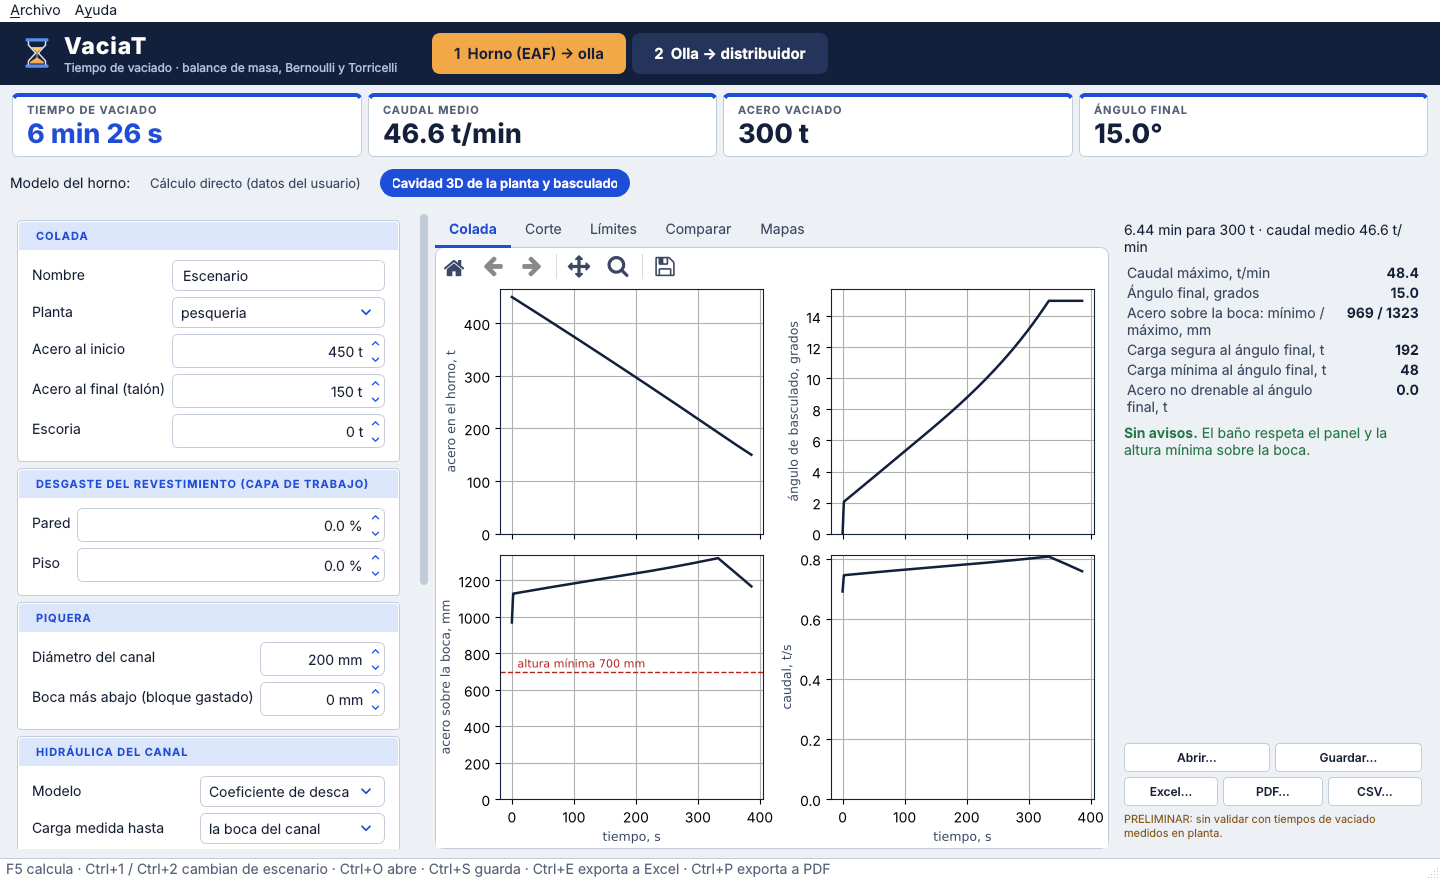
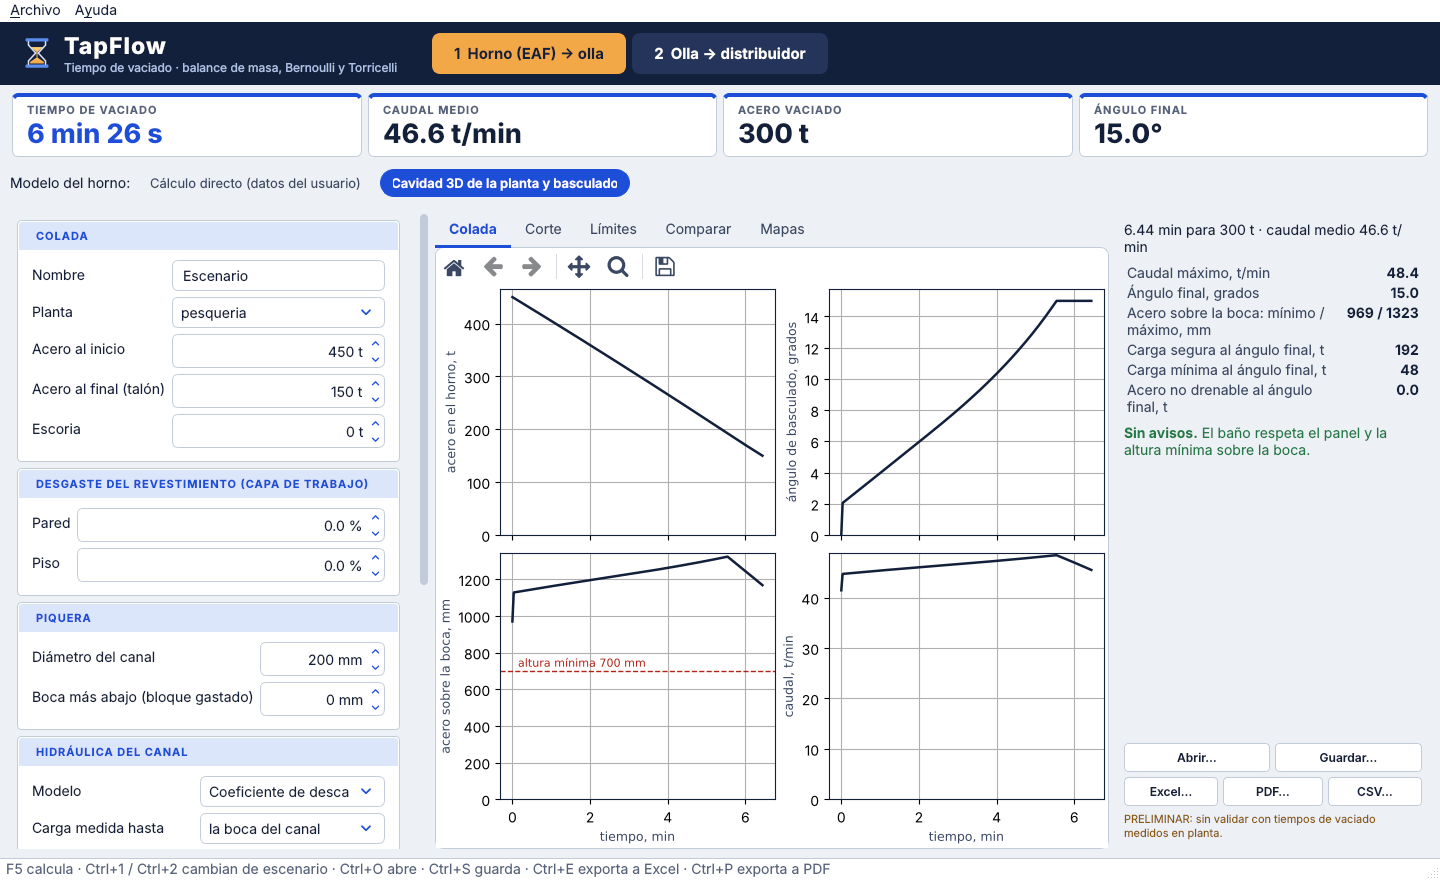
MV-005: el programa pasa a llamarse TapFlow
TapFlow en la ventana, el ejecutable, la CI y los documentos; el repositorio,
el paquete y los formatos no cambian. Sigue en 0.2.0-preliminar. 45 pruebas
en verde.

Claude-Session: https://claude.ai/code/session_01BzHvNseDPGdsyLfhJrthmM

diff --git a/herramientas/iconos.py b/herramientas/iconos.py
@@ -1,4 +1,4 @@
-"""Dibuja el icono de VaciaT con Qt (sin imágenes externas): ``python -m herramientas.iconos``.
+"""Dibuja el icono de TapFlow con Qt (sin imágenes externas): ``python -m herramientas.iconos``.
 
 El icono es un reloj de arena con acero fundido (el tiempo de vaciado), en la paleta del diseño: fondo de tinta oscura, marco
 claro, tapas en azul y acero en ámbar. Escribe ``modelo_vaciado/interfaz/recursos/icono.png`` (256 px) e ``icono.ico`` (16 a
@@ -22,7 +22,7 @@ from PySide6.QtGui import (QBrush, QColor, QFont, QGuiApplication, QImage, QLine
 RAIZ = Path(__file__).resolve().parent.parent
 CARPETA = RAIZ / "modelo_vaciado" / "interfaz" / "recursos"
 MUESTRA = RAIZ / "docs" / "figuras" / "icono.png"
-NARANJA, AMARILLO = QColor("#F3A847"), QColor("#FFD27A")      # acero de la paleta VaciaT (ACERO_LIQUIDO) y su brillo
+NARANJA, AMARILLO = QColor("#F3A847"), QColor("#FFD27A")      # acero de la paleta TapFlow (ACERO_LIQUIDO) y su brillo
 TINTA, CLARO, AZUL = "#13203B", "#DCE6FA", "#5B8DEF"          # fondo (TINTA), marco (ACENTO_SUAVE) y tapas (azul del acento, aclarado)
 
 
@@ -106,7 +106,7 @@ def muestra(ruta: Path):
     fuente.setBold(True)
     p.setFont(fuente)
     p.setPen(QColor(TINTA))
-    p.drawText(QRectF(290, 200, 160, 40), Qt.AlignmentFlag.AlignCenter, "VaciaT")
+    p.drawText(QRectF(290, 200, 160, 40), Qt.AlignmentFlag.AlignCenter, "TapFlow")
     p.end()
     ruta.parent.mkdir(parents=True, exist_ok=True)
     imagen.save(str(ruta))

diff --git a/modelo_vaciado/interfaz/tema.py b/modelo_vaciado/interfaz/tema.py
@@ -1,4 +1,4 @@
-"""El diseño de la ventana: **VaciaT**, claro, con la paleta de plano técnico (blanco, azul y tinta) y el acero en ámbar.
+"""El diseño de la ventana: **TapFlow**, claro, con la paleta de plano técnico (blanco, azul y tinta) y el acero en ámbar.
 
 Una paleta es un diccionario de roles (``ACENTO``, ``ACERO_LIQUIDO``, ``TINTA``…): la ventana y las gráficas no hablan de
 colores sino de roles. Los roles y las marcas de estado vienen del diseño Magnesita de LWD-EAF; los colores, del diseño «Plano»
@@ -9,7 +9,7 @@ la rama ``archivo/disenos-iniciales`` y en ``docs/historial/disenos-iniciales/``
 from __future__ import annotations
 
 DISENO = "vaciat"
-ETIQUETA = "VaciaT"
+ETIQUETA = "TapFlow"
 
 PALETA = dict(
     FONDO="#EDF1F6", SUPERFICIE="#FFFFFF", SUPERFICIE_2="#E2E8F0", SUPERFICIE_3="#D7E4F6",

diff --git a/verificacion/test_tiempo_vaciado.py b/verificacion/test_tiempo_vaciado.py
@@ -144,7 +144,7 @@ def test_ventana(tmp_path):
 
     qapp = aplicacion_qt()
     preparar(qapp)
-    assert tema.DISENO == "vaciat" and NOMBRE_APP == "VaciaT"
+    assert tema.DISENO == "vaciat" and NOMBRE_APP == "TapFlow"
     v = Ventana()
     assert v.icono_cargado and v.horno._detallado is None       # la vista con la cavidad 3D se arma al primer uso
     o = v.olla
@@ -163,7 +163,7 @@ def test_ventana(tmp_path):
     assert v.kpis[0].valor.text() == o.tiempo_texto()
     assert "Tiempo de vaciado" in v.resumen_texto()
     v.copiar_resumen()
-    assert "VaciaT" in qapp.clipboard().text()
+    assert "TapFlow" in qapp.clipboard().text()
     from PySide6.QtCore import QSettings
 
     ajustes = QSettings(str(tmp_path / "ajustes.ini"), QSettings.Format.IniFormat)

diff --git a/vaciado.py b/vaciado.py
@@ -1,4 +1,4 @@
-"""VaciaT: tiempo de vaciado del horno (EAF) a la olla y de la olla al distribuidor. Preliminar.
+"""TapFlow: tiempo de vaciado del horno (EAF) a la olla y de la olla al distribuidor. Preliminar.
 
     python vaciado.py                      abre la ventana
     python vaciado.py escenario.json       abre la ventana con ese escenario
@@ -20,7 +20,7 @@ if __name__ == "__main__":
     if args[:1] == ["--version"]:
         from modelo_vaciado import VERSION_MODELO
 
-        print(f"VaciaT {VERSION_MODELO}")
+        print(f"TapFlow {VERSION_MODELO}")
         sys.exit(0)
     if args[:1] == ["--probar-ventana"]:
         from modelo_vaciado.ventana import probar_ventana

diff --git a/empaquetado/construir.py b/empaquetado/construir.py
@@ -22,7 +22,7 @@ sys.path.insert(0, str(RAIZ))
 
 from modelo_vaciado import VERSION_MODELO  # noqa: E402
 
-NOMBRE = "VaciaT"
+NOMBRE = "TapFlow"
 # Módulos que el programa no usa y que otras bibliotecas arrastran si están instalados (adelgazan el ejecutable; medido en Linux:
 # ver CHANGELOG, MV-004). Matplotlib necesita Pillow y fontTools (PDF), que se quedan.
 EXCLUIDOS = ("scipy", "pandas", "lxml", "IPython", "PySide6.QtQml", "PySide6.QtQuick", "PySide6.QtNetwork", "PySide6.QtPdf",

diff --git a/modelo_vaciado/ventana.py b/modelo_vaciado/ventana.py
@@ -40,7 +40,7 @@ from .escenario import abrir, correr, planta_de
 from .reporte import AVISO, escribir_csv, escribir_excel, escribir_pdf, filas_de_resultado
 from .ventana_tiempo import PaginaTiempo, colores
 
-NOMBRE_APP = "VaciaT"          # nombre del programa (decisión del usuario del 2026-11-24)
+NOMBRE_APP = "TapFlow"          # nombre del programa (decisión del usuario del 2026-11-24)
 RAIZ = raiz()
 RECURSOS = RAIZ / "modelo_vaciado" / "interfaz" / "recursos"
 P = tema.PALETA

diff --git a/modelo_vaciado/interfaz/tema_qt.py b/modelo_vaciado/interfaz/tema_qt.py
@@ -1,4 +1,4 @@
-"""El diseño VaciaT vestido con Qt: la paleta y los roles son los de ``tema.py``; aquí está la hoja de estilo.
+"""El diseño TapFlow vestido con Qt: la paleta y los roles son los de ``tema.py``; aquí está la hoja de estilo.
 
 Tarjetas con esquinas redondeadas, botones y campos con estados (sobre, foco, inhabilitado), deslizadores y barras de
 desplazamiento finos, pestañas con subrayado y tablas con filas alternas. Qt escala solo en pantallas de 125 a 200 %.

diff --git a/modelo_vaciado/ventana_formulario.py b/modelo_vaciado/ventana_formulario.py
@@ -1,4 +1,4 @@
-"""Piezas de interfaz comunes a las páginas de VaciaT, sobre los componentes Qt de LWD-EAF."""
+"""Piezas de interfaz comunes a las páginas de TapFlow, sobre los componentes Qt de LWD-EAF."""
 
 from __future__ import annotations
 

diff --git a/docs/disenos.md b/docs/disenos.md
@@ -1,9 +1,9 @@
 # Diseño de la ventana, icono y nombre
 
-Este documento describe el aspecto de la ventana de VaciaT, su icono y su nombre, y conserva como historial la primera propuesta
+Este documento describe el aspecto de la ventana de TapFlow, su icono y su nombre, y conserva como historial la primera propuesta
 de la que salieron.
 
-## 1. Diseño VaciaT
+## 1. Diseño TapFlow
 
 El diseño combina la paleta del diseño «Plano» de la primera propuesta con el acomodo del diseño «Turno». Usa Qt (PySide6, estilo
 Fusion) y los componentes heredados de LWD-EAF: tarjetas con el estado de cada dato, selectores, campos numéricos y gráficas de
@@ -31,7 +31,7 @@ Capturas (sin pantalla; se regeneran con `python -m herramientas.capturas`):
 | Olla → distribuidor | [captura](figuras/ventana/olla_1440x880.png) | [captura](figuras/ventana/olla_1280x720.png) |
 | Horno con la cavidad 3D | [captura](figuras/ventana/horno_cavidad_3d_1440x880.png) | |
 
-![VaciaT, horno a la olla](figuras/ventana/horno_1440x880.png)
+![TapFlow, horno a la olla](figuras/ventana/horno_1440x880.png)
 
 ## 2. Icono
 
@@ -39,18 +39,20 @@ El icono es un reloj de arena con acero fundido, que representa el tiempo de vac
 (`python -m herramientas.iconos`), con los colores del diseño: fondo de la tinta oscura de la cabecera, marco claro, tapas en azul
 y acero en ámbar. Está en `modelo_vaciado/interfaz/recursos/icono.png` (256 px) e `icono.ico` (16 a 256 px, el del ejecutable).
 
-![Icono de VaciaT](figuras/icono.png)
+![Icono de TapFlow](figuras/icono.png)
 
 ## 3. Nombre
 
-El programa se llama **VaciaT** (de «vaciado» y «t», el tiempo). Es el nombre de la ventana y del ejecutable; el repositorio
+El programa se llama **TapFlow**: *tap* es el vaciado del horno por la piquera y *flow*, el flujo que el programa integra. Es el
+nombre de la ventana y del ejecutable; el repositorio
 (Modelo-Vaciado) y el paquete de Python (`modelo_vaciado`) conservan los suyos.
 
 ## 4. Historial: primera propuesta
 
 La primera propuesta tenía cuatro diseños (Magnesita, heredado de LWD-EAF; Colada, oscuro con navegación lateral; Plano,
 técnico con pestañas; y Turno, de alto contraste con tablero), cuatro iconos (Chorro, Torricelli, Reloj y Piquera) y seis opciones
-de nombre (Modelo-Vaciado, Torricelli, Caudal, VaciaT, Colada-T y Piquera). El código de esa propuesta, con el selector de diseño,
+de nombre (Modelo-Vaciado, Torricelli, Caudal, VaciaT, Colada-T y Piquera); de ellas se eligió primero VaciaT, que se
+sustituyó por TapFlow antes de publicar la versión 0.2.0-preliminar. El código de esa propuesta, con el selector de diseño,
 está en la rama `archivo/disenos-iniciales` (commit `f78fadf`), que no se desarrolla. Las capturas y la lámina de iconos se
 conservan en `docs/historial/disenos-iniciales/`:
 

diff --git a/docs/proyecto.md b/docs/proyecto.md
@@ -1,4 +1,4 @@
-# VaciaT: tiempos de vaciado del horno y de la olla
+# TapFlow: tiempos de vaciado del horno y de la olla
 
 Documento de proyecto. Estado al 2026-11-24: versión 0.2.0-preliminar. El alcance actual son dos escenarios: horno (EAF) → olla y
 olla → distribuidor.
@@ -38,7 +38,7 @@ El plan ordena el trabajo de modo que cada fase entregue algo utilizable. Las fa
 | 1 | Modelo del horno: nivel por masa y ángulo, hidráulica del canal, basculado e integración en el tiempo | Hecha |
 | 2 | Aplicación propia con ventana, exportación a Excel, PDF y CSV, y ejecutable | Hecha |
 | 3 | Mapas del horno (tiempo por ángulo fijo y por vida de la piquera), olla con válvula deslizante, tundish con control de nivel, moldes y secuencia de ollas | Hecha, con datos supuestos fuera del horno y de la olla |
-| 4 | Interfaz Qt con los componentes de LWD-EAF: tarjetas, etiquetas de estado de cada dato, selectores y botones | Hecha: diseño VaciaT, indicadores, recálculo en vivo, barra de las gráficas, atajos y ajuste a 1 280 × 720; falta la prueba en un escritorio de Windows |
+| 4 | Interfaz Qt con los componentes de LWD-EAF: tarjetas, etiquetas de estado de cada dato, selectores y botones | Hecha: diseño TapFlow, indicadores, recálculo en vivo, barra de las gráficas, atajos y ajuste a 1 280 × 720; falta la prueba en un escritorio de Windows |
 | 4b | Cálculo directo con las variables del usuario y reducción del alcance a horno → olla y olla → distribuidor | Hecha (MV-002) |
 | 5 | Datos de planta: tiempos de vaciado medidos, diámetros de piquera y de válvula, geometría del tundish y de la máquina | Pendiente de datos |
 | 6 | Calibración: coeficiente de descarga del horno y de la válvula con tiempos medidos; ley de crecimiento de la piquera | Pendiente de la fase 5 |
@@ -294,4 +294,4 @@ las páginas, cuatro indicadores muestran el resultado de la página activa. El 
 | 2026-11-24 | MV-001: traslado del modelo a este repositorio |
 | 2026-11-24 | MV-002: cálculo directo con las variables del usuario; alcance reducido a horno → olla y olla → distribuidor |
 | 2026-11-24 | MV-003: tres diseños nuevos de la ventana, opciones de icono y de nombre |
-| 2026-11-24 | MV-004: VaciaT 0.2.0-preliminar: diseño, icono y nombre elegidos; optimizaciones de la ventana y del ejecutable |
+| 2026-11-24 | MV-004: TapFlow 0.2.0-preliminar: diseño, icono y nombre elegidos; optimizaciones de la ventana y del ejecutable |

diff --git a/CHANGELOG.md b/CHANGELOG.md
@@ -4,6 +4,19 @@ Cada modificación agrega una entrada (`MV-NNN`) con motivo, resultado, evidenci
 
 ## 2026-11-24
 
+### MV-005: El programa pasa a llamarse TapFlow
+
+- Motivo: decisión del usuario del 2026-11-24, antes de fusionar la rama: el nombre del programa es TapFlow en lugar de VaciaT.
+- Resultado: TapFlow en la ventana (título, cabecera, «Acerca de», resumen copiado), el ejecutable (`dist/TapFlow/`, artefacto
+  `TapFlow-windows` de la CI), los ajustes recordados entre sesiones, la muestra del icono y los documentos. El repositorio
+  (Modelo-Vaciado), el paquete de Python (`modelo_vaciado`) y los formatos de archivo no cambian. Las entradas MV-004 y
+  anteriores conservan el nombre que tenían.
+- Versión: sigue en 0.2.0-preliminar, que no se había publicado.
+- Impacto numérico: ninguno.
+- Verificación (Linux, Python 3.13.18, PySide6 sin pantalla): `python -m pytest verificacion -q -p no:cacheprovider`:
+  `45 passed`; `ruff check .`: limpio; `python vaciado.py --probar-ventana`: «ok»; `python vaciado.py --version`: «TapFlow
+  0.2.0-preliminar». Icono, muestra y capturas regeneradas.
+
 ### MV-004: VaciaT 0.2.0-preliminar: diseño, icono y nombre elegidos; optimizaciones de la ventana y del ejecutable
 
 - Motivo: decisiones del usuario del 2026-11-24 sobre la primera propuesta (MV-003): diseño «Plano» con la estructura del diseño

diff --git a/modelo_vaciado/interfaz/PROCEDENCIA.md b/modelo_vaciado/interfaz/PROCEDENCIA.md
@@ -4,9 +4,9 @@ Copiados de `lwd_eaf/interfaz/` del repositorio LWD-EAF (commit `d3c7ad23dbb6794
 
 | Archivo | Origen | Cambio |
 |---|---|---|
-| `tema.py` | `lwd_eaf/interfaz/tema.py` | Mismos roles y marcas de estado; paleta VaciaT en lugar de Magnesita (MV-004); estados «cálculo del proveedor» y «ejemplo»; 100 ppp en las figuras |
+| `tema.py` | `lwd_eaf/interfaz/tema.py` | Mismos roles y marcas de estado; paleta TapFlow en lugar de Magnesita (MV-004); estados «cálculo del proveedor» y «ejemplo»; 100 ppp en las figuras |
 | `tema_qt.py` | `lwd_eaf/interfaz/tema_qt.py` | Flechas propias, tamaño de letra, color de foco, campos numéricos, pestañas, menús, barra de estado y el acomodo de tablero (cabecera, pasos e indicadores) en la hoja de estilo (MV-003, MV-004) |
 | `widgets.py`, `formato.py` | `lwd_eaf/interfaz/` | Ninguno |
-| `recursos/icono.png`, `recursos/icono.ico` | Nuevos (MV-004) | Icono de VaciaT, dibujado con `herramientas/iconos.py`; reemplaza al de LWD-EAF |
+| `recursos/icono.png`, `recursos/icono.ico` | Nuevos (MV-004) | Icono de TapFlow, dibujado con `herramientas/iconos.py`; reemplaza al de LWD-EAF |
 
 Estos componentes pueden evolucionar en este repositorio; a diferencia de `horno3d/`, no son una copia de solo lectura.
